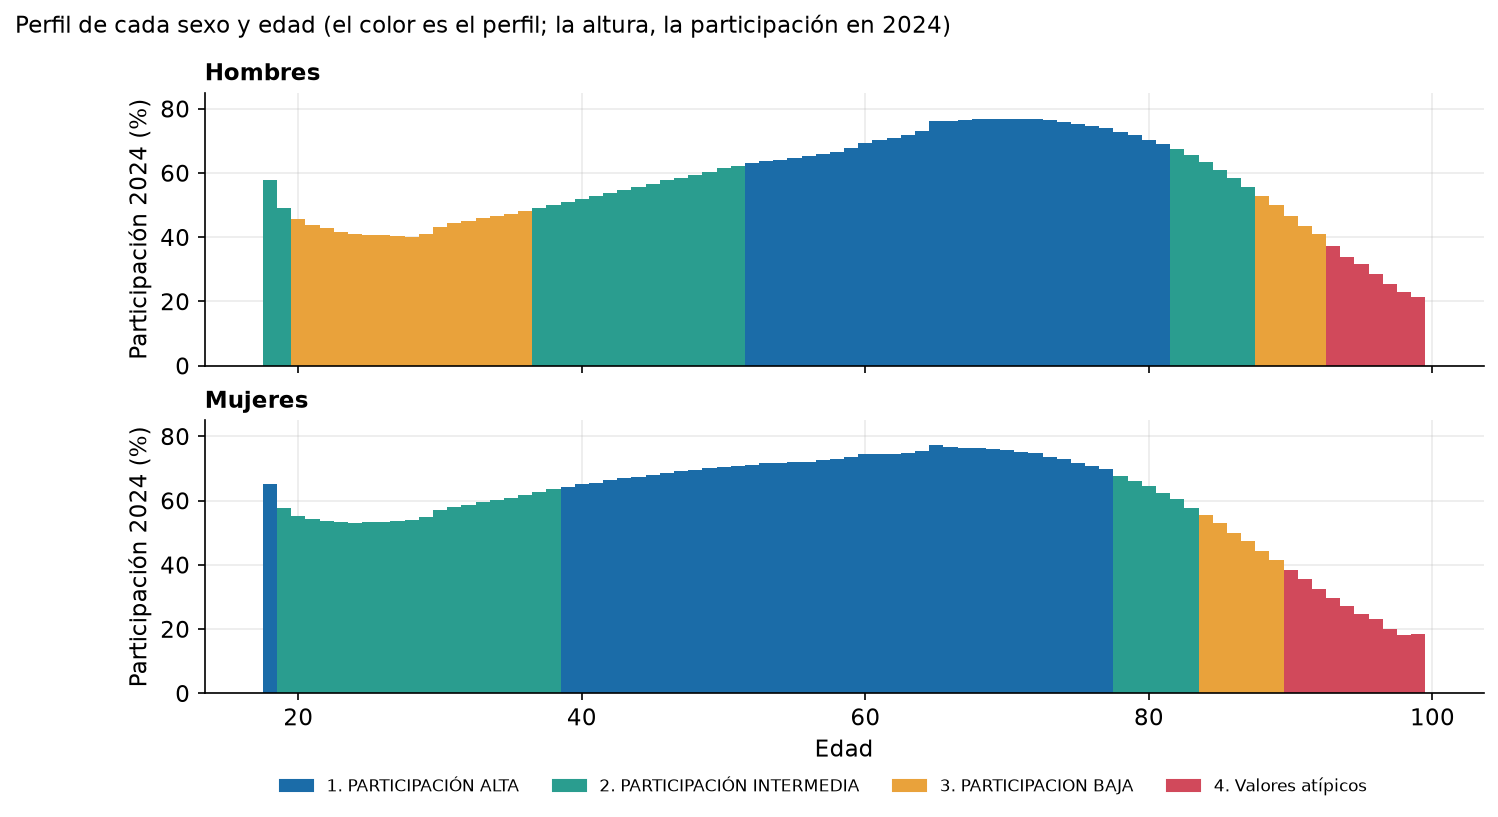
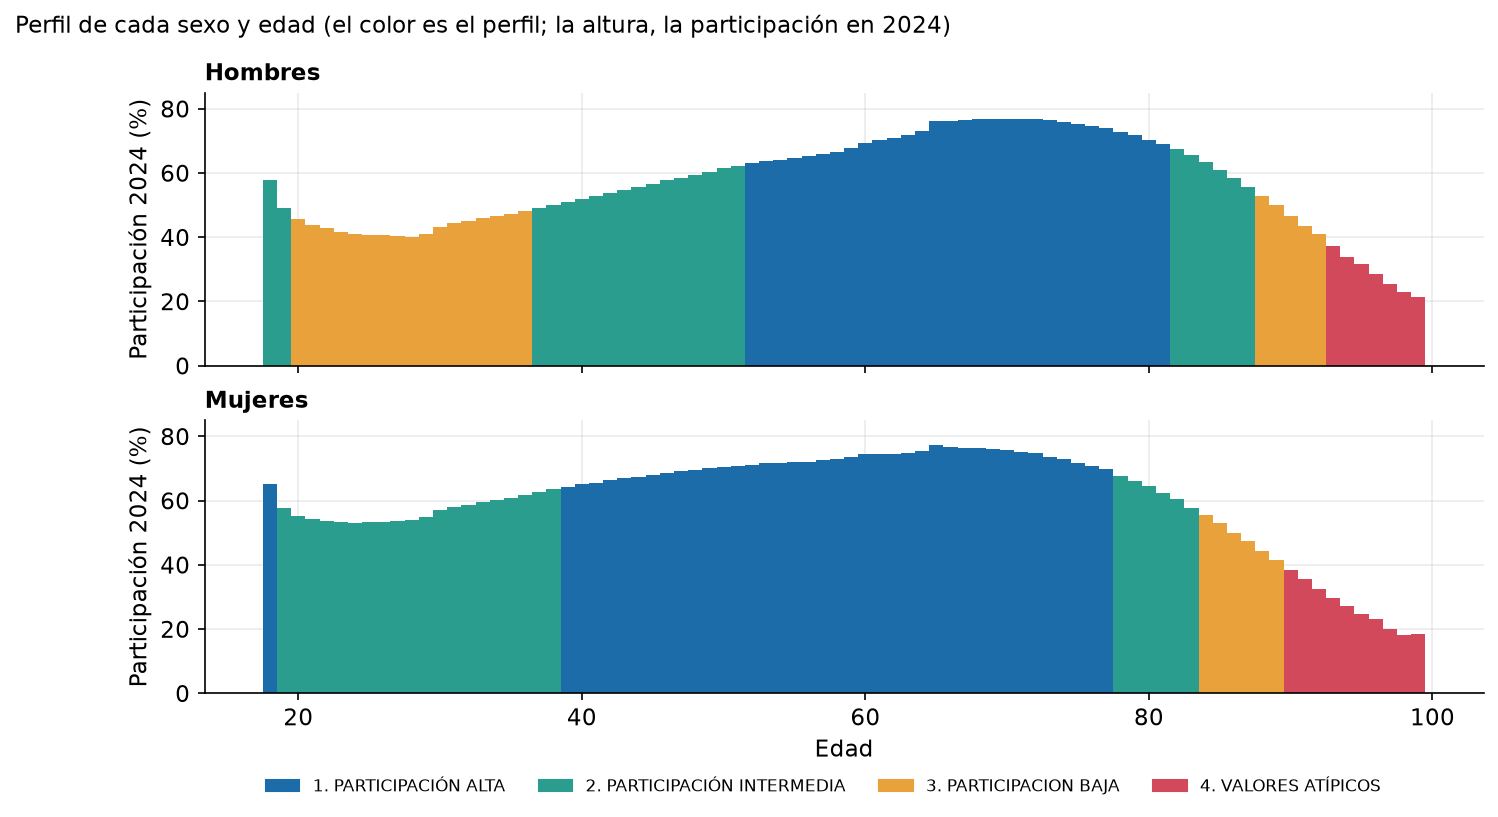
Corrige el tema oscuro y unifica el perfil VALORES ATÍPICOS

Changed region(s): [[0.1535, 0.9486, 0.9212, 0.9792]]

diff --git a/app.py b/app.py
@@ -33,6 +33,12 @@ def download_table(df, name, label="Descargar tabla CSV"):
     st.download_button(label, csv_bytes(df), file_name=name, mime="text/csv", key="download_" + name)
 
 
+def render_table(frame, percent_columns=(), hide_index=True):
+    # Las tablas HTML permiten aplicar el tema completo, incluido el encabezado.
+    formats = {column: "{:.1f}%" for column in percent_columns}
+    st.table(frame.style.format(formats), hide_index=hide_index)
+
+
 def overview(data, profiles, year, tokens):
     heading("RETO 1 / PANEL ESTADÍSTICO", "La participación tiene distintos perfiles",
             "Explora cuatro tipologías nacionales por sexo y edad. Compara su participación histórica y las diferencias territoriales.")
@@ -58,16 +64,11 @@ def overview(data, profiles, year, tokens):
     chart(charts.age_bars(segments, tokens, year), "overview_age_bars")
     summary, trajectory = profile_tables(data, profiles, year)
     st.subheader("Los cuatro perfiles" if len(profiles) == 4 else "Perfiles seleccionados")
-    st.dataframe(summary, hide_index=True, width="stretch", column_config={
-        "% de lista nominal (2024)": st.column_config.NumberColumn(format="%.1f%%"),
-        f"Participación {year} (%)": st.column_config.NumberColumn(format="%.1f%%"),
-    })
+    render_table(summary, ["% de lista nominal (2024)", f"Participación {year} (%)"])
     st.caption(f"Edades y asignaciones construidas con las seis elecciones. La composición de lista nominal corresponde a 2024; la participación corresponde a {year} y usa SV / (SV + NV).")
     download_table(summary, f"resumen_perfiles_{year}.csv", "Descargar resumen de perfiles")
     st.subheader("Participación de los perfiles por elección")
-    st.dataframe(trajectory, hide_index=True, width="stretch", column_config={
-        str(y): st.column_config.NumberColumn(format="%.1f%%") for y in YEARS
-    })
+    render_table(trajectory, [str(y) for y in YEARS])
     st.caption("Porcentaje entre registros con situación especificada, por elección. NS no se contabiliza como abstención.")
     download_table(trajectory, "participacion_perfiles_seis_elecciones.csv", "Descargar tabla histórica")
     left, right = st.columns([1.35, 1], gap="large")
@@ -81,7 +82,7 @@ def overview(data, profiles, year, tokens):
     with st.container(border=True):
         st.subheader("Cómo leer los perfiles")
         st.write("Los niveles de participación cambian de forma continua con la edad. Los cuatro perfiles resumen ese patrón; sus límites no son umbrales naturales ni describen decisiones individuales.")
-        st.write("El perfil 4, Valores atípicos, incluye hombres de 93–99 y mujeres de 90–99 años. Su nombre no implica errores ni una detección estadística de anomalías.")
+        st.write("El perfil 4, VALORES ATÍPICOS, incluye hombres de 93–99 y mujeres de 90–99 años. Su nombre no implica errores ni una detección estadística de anomalías.")
 
 
 def demographics(data, profiles, year, tokens):
@@ -113,7 +114,7 @@ def demographics(data, profiles, year, tokens):
             st.caption("La ficha muestra la definición completa, independientemente del rango de edad visible.")
     table = selected[["perfil", "nombre", "sexo", "edad", str(year)]].rename(columns={str(year): "participacion_pct"})
     with st.expander("Consultar los valores de la gráfica"):
-        st.dataframe(table, hide_index=True, width="stretch")
+        render_table(table, ["participacion_pct"])
     download_table(table, f"perfiles_sexo_edad_{year}.csv")
 
 
@@ -131,7 +132,7 @@ def evolution(data, profiles, year, tokens):
     st.caption("Las tasas publicadas están redondeadas a un decimal. Las líneas conectan cortes agregados; no siguen a las mismas personas entre elecciones.")
     st.subheader("Participación por perfil y elección")
     pivot = selected.pivot(index="nombre", columns="anio", values="participacion_pct")
-    st.dataframe(pivot, width="stretch")
+    render_table(pivot, pivot.columns, hide_index=False)
     download_table(selected[["perfil", "nombre", "anio", "tipo_eleccion", "participacion_pct"]], "trayectorias_perfiles.csv")
 
 
@@ -153,10 +154,10 @@ def territory(data, profiles, tokens):
         st.info("Sur rural presenta una forma por edad menos parecida al patrón nacional; conviene interpretarlo como un contexto particular.")
     st.subheader("Valores observados en 2024")
     table = selected[["grupo", "perfil", "nombre", "participacion_pct", "anio"]]
-    st.dataframe(table, hide_index=True, width="stretch")
+    render_table(table, ["participacion_pct"])
     download_table(table, "participacion_territorial_2024.csv")
     with st.expander("Diferencias de nivel y concordancia con los perfiles nacionales"):
-        st.dataframe(selected[["grupo", "nivel_vs_nacional_pts", "ari_perfiles_propios_vs_nacional"]].drop_duplicates(), hide_index=True, width="stretch")
+        render_table(selected[["grupo", "nivel_vs_nacional_pts", "ari_perfiles_propios_vs_nacional"]].drop_duplicates())
         st.caption("El ajuste de nivel resume 2009–2024. No debe sumarse automáticamente a tasas de otro corte para predecir participación. ARI mide concordancia de agrupaciones, no exactitud.")
 
 
@@ -171,7 +172,7 @@ def methodology(data):
     st.markdown("**Participación entre especificados:** `SV / (SV + NV) × 100`.\n\n**No especificados:** `NS / LN × 100`. NS no se considera abstención.\n\n**Composición del perfil:** proporción de la lista nominal analizada en 2024; usa un denominador diferente al de participación.")
     st.subheader("Por qué cuatro perfiles")
     st.write("Se compararon K-means y Ward con dos a seis grupos. La propuesta utiliza K-means con cuatro perfiles por interpretabilidad y estabilidad. Dos grupos tienen mayor silhouette; cuatro es una decisión analítica, no una prueba de cuatro tipos naturales de ciudadanía.")
-    st.dataframe(data["comparison"], hide_index=True, width="stretch")
+    render_table(data["comparison"])
     st.subheader("Cobertura y límites")
     st.markdown("- Perfiles de hombres y mujeres de 18–99 años; la categoría no binario solo tiene registros en 2024 y se conserva en una tabla descriptiva aparte.\n- Las edades de 100 o más quedan fuera de estos perfiles.\n- Los mismos rangos de edad no representan a las mismas personas a lo largo del tiempo.\n- No hay escolaridad, ingreso ni motivos para votar en estas tablas.\n- Norte, centro y sur son una regionalización propia del proyecto.\n- Los cuadernillos no incluyen voto desde el extranjero ni participación en casillas especiales.\n- Los perfiles no identifican causas; las estrategias de educación cívica requieren validación.")
     with st.expander("Ver la cobertura de registros no especificados"):

diff --git a/dashboard/theme.py b/dashboard/theme.py
@@ -11,6 +11,8 @@ THEMES = {
 def apply_theme(name):
     t = THEMES[name]
     st.markdown(f"""<style>
+    :root, .stApp {{color-scheme:{'dark' if name == 'Oscuro' else 'light'};
+        --text-color:{t['text']};--background-color:{t['bg']};--secondary-background-color:{t['surface']};}}
     .stApp, [data-testid="stAppViewContainer"] {{background:{t['bg']};color:{t['text']};}}
     [data-testid="stHeader"] {{background:transparent;}}
     [data-testid="stSidebar"] {{background:{t['sidebar']};border-right:1px solid {t['border']};}}
@@ -23,6 +25,53 @@ def apply_theme(name):
     [data-testid="stVerticalBlockBorderWrapper"] {{border-color:{t['border']}!important;}}
     [data-testid="stSidebar"] p, [data-testid="stSidebar"] label,
     [data-testid="stCaptionContainer"], [data-testid="stCaptionContainer"] p {{color:{t['muted']}!important;}}
+    [data-testid="stWidgetLabel"] p, [data-testid="stMarkdownContainer"] p,
+    [data-testid="stExpander"] summary {{color:{t['text']};}}
+    [data-testid="stButton"] button, [data-testid="stDownloadButton"] button,
+    [data-testid="stLinkButton"] a, [data-testid="stBaseButton-headerNoPadding"],
+    [data-testid="stBaseButton-header"], [data-testid="stBaseButton-minimal"],
+    [data-testid="stExpandSidebarButton"], [data-testid="stSidebarCollapseButton"] button,
+    [data-testid="stSidebarCollapsedControl"] button {{
+        background:{t['surface']}!important;color:{t['text']}!important;
+        border:1px solid {t['border']}!important;border-radius:8px;}}
+    [data-testid="stDownloadButton"] button p, [data-testid="stButton"] button p,
+    [data-testid="stLinkButton"] a p {{color:{t['text']}!important;}}
+    button[kind="headerNoPadding"], button[kind="header"], button[kind="minimal"],
+    button[kind="headerNoPadding"] span, button[kind="header"] span {{color:{t['text']}!important;}}
+    button:focus-visible, a:focus-visible {{outline:2px solid #D65D91!important;outline-offset:3px;}}
+    [data-testid="stButton"] button:hover, [data-testid="stDownloadButton"] button:hover,
+    [data-testid="stLinkButton"] a:hover {{border-color:#D65D91!important;background:{t['border']}!important;}}
+    [data-baseweb="select"] > div, [data-baseweb="input"], [data-baseweb="input"] input,
+    [data-baseweb="popover"] > div, [data-baseweb="menu"],
+    [role="listbox"], [role="option"] {{background:{t['surface']}!important;color:{t['text']}!important;}}
+    [data-baseweb="select"] input, [data-baseweb="select"] svg,
+    [data-baseweb="select"] [role="button"], [data-baseweb="select"] span {{color:{t['text']};fill:currentColor;}}
+    [role="option"]:hover, [role="option"][aria-selected="true"] {{background:{t['border']}!important;}}
+    [data-baseweb="tag"] {{background:#A51D57!important;color:#FFFFFF!important;}}
+    [data-baseweb="tag"] span, [data-baseweb="tag"] svg {{color:#FFFFFF!important;}}
+    [data-testid="stSelectbox"] .react-aria-ComboBox > [role="group"],
+    [data-testid="stMultiSelect"] .react-aria-ComboBox > [role="group"] {{
+        background:{t['surface']}!important;color:{t['text']}!important;border-color:{t['border']}!important;}}
+    [data-testid="stSelectbox"] input, [data-testid="stMultiSelect"] input {{
+        background:transparent!important;color:{t['text']}!important;caret-color:{t['text']};}}
+    [data-testid="stSelectbox"] button, [data-testid="stMultiSelect"] button {{
+        background:transparent!important;color:{t['text']}!important;}}
+    [data-testid="stSelectbox"] svg, [data-testid="stMultiSelect"] svg {{color:{t['text']}!important;}}
+    [data-testid="stMultiSelect"] [data-tag] {{background:#A51D57!important;color:white!important;}}
+    [data-testid="stMultiSelect"] [data-tag] button, [data-testid="stMultiSelect"] [data-tag] svg {{color:white!important;}}
+    .react-aria-Popover, .react-aria-ListBox, [data-rac][data-trigger="ComboBox"] {{
+        background:{t['surface']}!important;color:{t['text']}!important;border-color:{t['border']}!important;}}
+    [data-baseweb="radio"] > div:first-child {{background:{t['surface']};border-color:{t['muted']};}}
+    [data-testid="stSlider"] [data-testid="stTickBarMin"],
+    [data-testid="stSlider"] [data-testid="stTickBarMax"],
+    [data-testid="stSlider"] [data-testid="stThumbValue"] {{color:{t['text']}!important;}}
+    [data-testid="stTable"] {{overflow-x:auto;border:1px solid {t['border']};border-radius:9px;background:{t['surface']};}}
+    [data-testid="stTable"] table {{color:{t['text']}!important;background:{t['surface']}!important;width:100%;}}
+    [data-testid="stTable"] th {{background:{t['sidebar']}!important;color:{t['text']}!important;font-weight:700;}}
+    [data-testid="stTable"] td {{background:{t['surface']}!important;color:{t['text']}!important;}}
+    [data-testid="stTable"] th, [data-testid="stTable"] td {{border-color:{t['border']}!important;padding:.65rem .75rem;}}
+    [data-testid="stTable"] tbody tr:nth-child(even) td {{background:{t['bg']}!important;}}
+    [data-testid="stTable"] a {{color:{t['text']}!important;}}
     .eyebrow {{color:#B3336D;font-size:.73rem;font-weight:800;letter-spacing:.15em;margin:0 0 .7rem;}}
     .intro {{color:{t['muted']};font-size:1.02rem;max-width:850px;line-height:1.65;margin-bottom:1.5rem;}}
     .brand {{font-size:1.1rem;font-weight:800;letter-spacing:-.03em;margin:.4rem 0 .15rem;color:{t['text']};}}

diff --git a/tests/test_dashboard.py b/tests/test_dashboard.py
@@ -51,7 +51,7 @@ class DataContractTests(unittest.TestCase):
         self.assertEqual(summary["#"].tolist(), [1, 2, 3, 4])
         self.assertEqual(summary.loc[0, "Hombres (años)"], "52-81")
         self.assertEqual(summary.loc[0, "Mujeres (años)"], "18, 39-77")
-        self.assertEqual(summary.loc[3, "Perfil"], "Valores atípicos")
+        self.assertEqual(summary.loc[3, "Perfil"], "VALORES ATÍPICOS")
         self.assertEqual(summary.loc[3, "Participación 2024 (%)"], 31.1)
         self.assertEqual(history.loc[0, "2009"], 54.8)
         other, _ = profile_tables(self.data, [1], 2018)
@@ -78,8 +78,8 @@ class NavigationTests(unittest.TestCase):
         app = AppTest.from_file(str(ROOT / "app.py"), default_timeout=40).run()
         self.assertFalse(app.exception, str(app.exception))
         self.assertIn("La participación", app.title[0].value)
-        self.assertEqual(len(app.dataframe), 2)
-        self.assertIn("Hombres (años)", app.dataframe[0].value.columns)
+        self.assertEqual(len(app.table), 2)
+        self.assertIn("Hombres (años)", app.table[0].value.columns)
         for page in ["Sexo y edad", "Evolución", "Territorio", "Metodología"]:
             app.sidebar.radio(key="section").set_value(page).run()
             self.assertFalse(app.exception, f"{page}: {app.exception}")

diff --git a/scripts/20_figuras_perfiles.py b/scripts/20_figuras_perfiles.py
@@ -6,7 +6,7 @@ import matplotlib.pyplot as plt
 from config import PROC, TABLAS, GRAFICAS, RAIZ, ANIOS
 from estilo import PAL, plt as _p
 OUT = RAIZ / "reports/perfiles_sexo_edad"; OUT.mkdir(parents=True, exist_ok=True)
-NOM = {1: "1. PARTICIPACIÓN ALTA", 2: "2. PARTICIPACIÓN INTERMEDIA", 3: "3. PARTICIPACION BAJA", 4: "4. Valores atípicos"}
+NOM = {1: "1. PARTICIPACIÓN ALTA", 2: "2. PARTICIPACIÓN INTERMEDIA", 3: "3. PARTICIPACION BAJA", 4: "4. VALORES ATÍPICOS"}
 COL = {1: PAL[0], 2: PAL[2], 3: PAL[3], 4: PAL[1]}
 def guardar(fig, n): fig.savefig(OUT / n, dpi=150, bbox_inches="tight", facecolor="white"); plt.close(fig)
 

diff --git a/dashboard/data.py b/dashboard/data.py
@@ -11,7 +11,7 @@ NAMES = {
     1: "PARTICIPACIÓN ALTA",
     2: "PARTICIPACIÓN INTERMEDIA",
     3: "PARTICIPACION BAJA",
-    4: "Valores atípicos",
+    4: "VALORES ATÍPICOS",
 }
 COLORS = {1: "#1B6CA8", 2: "#2A9D8F", 3: "#E9A23B", 4: "#D1495B"}
 SEXES = {0: "Hombres", 1: "Mujeres"}

diff --git a/README.md b/README.md
@@ -41,7 +41,7 @@ La etapa de exploración ya cuenta con una segmentación sociodemográfica y res
 
 ## Perfiles por sexo y edad (propuesta actual)
 
-Propuesta de cuatro perfiles nacionales de participación (PARTICIPACIÓN ALTA, PARTICIPACIÓN INTERMEDIA, PARTICIPACION BAJA y Valores atípicos) definidos por sexo y edad simple, con un ajuste por región y tipo de sección. Explicación completa, figuras, tratamiento de los no especificados y de las personas no binarias, robustez y límites en [reports/perfiles_sexo_edad/](reports/perfiles_sexo_edad/README.md).
+Propuesta de cuatro perfiles nacionales de participación (PARTICIPACIÓN ALTA, PARTICIPACIÓN INTERMEDIA, PARTICIPACION BAJA y VALORES ATÍPICOS) definidos por sexo y edad simple, con un ajuste por región y tipo de sección. Explicación completa, figuras, tratamiento de los no especificados y de las personas no binarias, robustez y límites en [reports/perfiles_sexo_edad/](reports/perfiles_sexo_edad/README.md).
 
 ## Resultados de la segmentación sociodemográfica
 

diff --git a/docs/dashboard_streamlit.md b/docs/dashboard_streamlit.md
@@ -36,7 +36,9 @@ Todas las fuentes están publicadas en `reports/perfiles_sexo_edad/`. No se carg
 - Las tasas nacionales publicadas están redondeadas a un decimal.
 - No hay conteos desagregados en las tablas por edad publicadas: la app no inventa totales al filtrar edad o sexo.
 - Región y sección son contexto de perfiles nacionales; no se suman ajustes territoriales para fabricar tasas de cruces ausentes.
-- Los valores atípicos son el nombre del perfil 4, no un resultado de detección de anomalías.
+- VALORES ATÍPICOS es el nombre del perfil 4, no un resultado de detección de anomalías.
+
+Las tablas se muestran en HTML con el mismo tema que el panel, incluidos encabezados y filas. Las descargas CSV conservan los datos numéricos. El tema también se aplica a botones, menús y controles para plegar el sidebar.
 
 ## Comprobaciones
 
